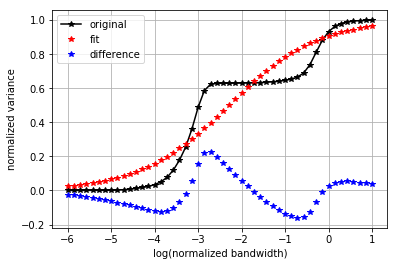
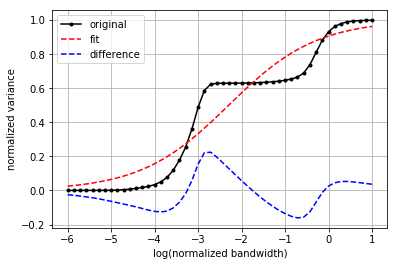
updating normalized variance and KReg documentation and tutorial

diff --git a/PCAfold/analysis.py b/PCAfold/analysis.py
@@ -64,14 +64,14 @@ def compute_normalized_variance(indepvars, depvars, depvar_names, npts_bandwidth
 
     .. math::
 
-        \\mathcal{N}(\\sigma) = \\frac{\\sum_{i=1}^n (y_i - \\mathcal{K}_{i}(\\sigma))^2}{\\sum_{i=1}^n (y_i - \\bar{y} )^2}
+        \\mathcal{N}(\\sigma) = \\frac{\\sum_{i=1}^n (y_i - \\mathcal{K}(\\hat{x}_i; \\sigma))^2}{\\sum_{i=1}^n (y_i - \\bar{y} )^2}
 
-    where :math:`\\bar{y}` is the average quantity over the whole manifold and :math:`\\mathcal{K}_{i}(\\sigma)` is the
+    where :math:`\\bar{y}` is the average quantity over the whole manifold and :math:`\\mathcal{K}(\\hat{x}_i; \\sigma)` is the
     weighted average quantity calculated using kernel regression with a Gaussian kernel of bandwidth :math:`\\sigma` centered
     around the :math:`i^{th}` observation. :math:`n` is the number of observations.
     :math:`\\mathcal{N}(\\sigma)` is computed for each bandwidth in an array of bandwidth values.
-    By default, the ``indepvars`` are centered and scaled to reside inside a unit box so that the bandwidths have the
-    same meaning in each dimensions. Therefore, the bandwidth and its involved calculations are applied in the normalized
+    By default, the ``indepvars`` (:math:`x`) are centered and scaled to reside inside a unit box (resulting in :math:`\\hat{x}`) so that the bandwidths have the
+    same meaning in each dimension. Therefore, the bandwidth and its involved calculations are applied in the normalized
     independent variable space. This may be turned off by setting ``scale_unit_box`` to False.
     The bandwidth values may be specified directly through ``bandwidth_values`` or default values will be calculated as a
     logspace from ``min_bandwidth`` to ``max_bandwidth`` with ``npts_bandwidth`` number of values. If left unspecified,
@@ -204,9 +204,9 @@ def logistic_fit(normalized_variance_values, bandwidth_values, show_plot=False):
 
     if show_plot:
         diff = normalized_variance_values - logistic
-        plt.plot(log_bandwidth_values, normalized_variance_values, 'k*-', label='original')
-        plt.plot(log_bandwidth_values, logistic, 'r*', label='fit')
-        plt.plot(log_bandwidth_values, diff, 'b*', label='difference')
+        plt.plot(log_bandwidth_values, normalized_variance_values, 'k.-', label='original')
+        plt.plot(log_bandwidth_values, logistic, 'r--', label='fit')
+        plt.plot(log_bandwidth_values, diff, 'b--', label='difference')
         plt.xlabel('log(normalized bandwidth)')
         plt.ylabel('normalized variance')
         plt.grid()

diff --git a/docs/tutorials/demo-manifold-assessment.rst b/docs/tutorials/demo-manifold-assessment.rst
@@ -9,11 +9,11 @@ manifold quality and dimensionality as well as comparing manifolds
 (parameterizations) in terms of representing dependent variables of
 interest.
 
-.. code:: ipython3
+.. code:: python
 
     import numpy as np
     import matplotlib.pyplot as plt
-    from PCAfold import compute_normalized_variance, PreProcessing, PCA, logistic_fit, assess_manifolds
+    from PCAfold import compute_normalized_variance, PCA, logistic_fit, assess_manifolds
 
 Here we are creating a two-dimensional manifold to assess with a
 dependent variable. Independent variables :math:`x` and :math:`y` and
@@ -33,7 +33,7 @@ dependent variable :math:`f` will be defined as
 
 for a grid :math:`g` between [-0.5,1].
 
-.. code:: ipython3
+.. code:: python
 
     npts = 1001
     grid = np.linspace(-0.5,1.,npts)
@@ -63,7 +63,7 @@ independent and dependent variables must be arranged into
 two-dimensional arrays size npts by number of variables. This is done in
 the following code.
 
-.. code:: ipython3
+.. code:: python
 
     indepvars = np.vstack((x, y)).T
     depvars = np.expand_dims(f, axis=1)
@@ -96,7 +96,7 @@ are applied to the independent variables after they are centered and
 scaled inside a unit box (by default), and therefore are referred to as
 normalized bandwidth in the following plots.
 
-.. code:: ipython3
+.. code:: python
 
     depvar_name = 'depvar' # dependent variable name
     bandwidth = np.logspace(-6,1) # array of bandwidth values
@@ -119,7 +119,7 @@ over the manifold. Therefore the desired curve for an optimal manifold
 is one that has a single smooth rise that occurs at larger bandwidth
 values.
 
-.. code:: ipython3
+.. code:: python
 
     plt.semilogx(orig1Dx.bandwidth_values,orig1Dx.normalized_variance[depvar_name],label='orig,1D_x')
     plt.semilogx(orig1Dy.bandwidth_values,orig1Dy.normalized_variance[depvar_name],label='orig,1D_y')
@@ -177,7 +177,7 @@ parameter and manifold spread parameter. The manifold uniqueness
 parameter of the one-dimensional manifolds being less than ~0.999
 indicates these representations have overlapping states.
 
-.. code:: ipython3
+.. code:: python
 
     variance_data_dict = {}
     variance_data_dict['orig,1D_x'] = orig1Dx
@@ -210,7 +210,7 @@ when ``show_plot`` is set to True.
 The first plot is a one-dimensional manifold with overlap while the
 second plot is for the two-dimensional manifold.
 
-.. code:: ipython3
+.. code:: python
 
     print('Example of overlapping manifold resulting in bad logistic fit:')
     spread, R2 = logistic_fit(orig1Dx.normalized_variance[depvar_name], orig1Dx.bandwidth_values, show_plot=True)
@@ -257,11 +257,11 @@ created with different scalings. The first uses the default scaling
 resulting manifolds are shown below for comparison to the original. The
 dimensions for the PCA manifolds are referred to as PC1 and PC2.
 
-.. code:: ipython3
+.. code:: python
 
     # PCA using std scaling
     pca_std = PCA(indepvars)
-    eta_std = pca_std.x2eta(indepvars)
+    eta_std = pca_std.transform(indepvars)
 
     plt.scatter(eta_std[:,0], eta_std[:,1], c=f, s=2, cmap='rainbow')
     plt.colorbar()
@@ -273,7 +273,7 @@ dimensions for the PCA manifolds are referred to as PC1 and PC2.
 
     # PCA using pareto scaling
     pca_pareto = PCA(indepvars,'pareto')
-    eta_pareto = pca_pareto.x2eta(indepvars)
+    eta_pareto = pca_pareto.transform(indepvars)
 
     plt.scatter(eta_pareto[:,0], eta_pareto[:,1], c=f, s=2, cmap='rainbow')
     plt.colorbar()
@@ -298,7 +298,7 @@ manifolds in one and two dimensional space. Since PCA orders the PCs
 according the amount of variance explained, we will use PC1 for
 representing a one-dimensional manifold.
 
-.. code:: ipython3
+.. code:: python
 
     pca1D_std = compute_normalized_variance(eta_std[:,:1], depvars, [depvar_name],bandwidth_values=bandwidth)
     pca2D_std = compute_normalized_variance(eta_std,       depvars, [depvar_name],bandwidth_values=bandwidth)
@@ -324,7 +324,7 @@ fewer regions of overlap than the others. This can be seen in collapsing
 the ``std`` PCA figure above onto PC1 alone compared to collapsing the
 other manifolds onto one dimension.
 
-.. code:: ipython3
+.. code:: python
 
     variance_data_dict['pca_std,1D'] = pca1D_std
     variance_data_dict['pca_std,2D'] = pca2D_std
